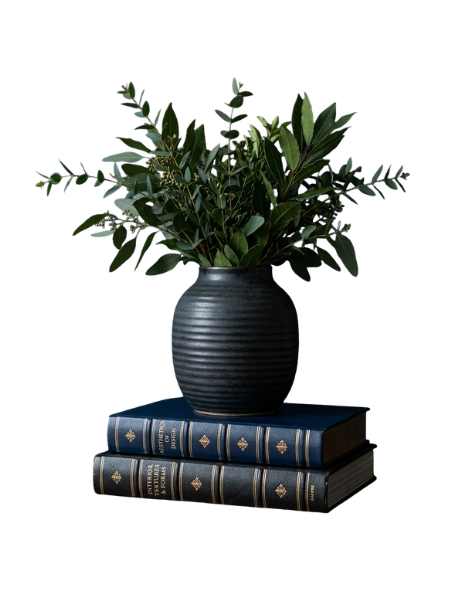
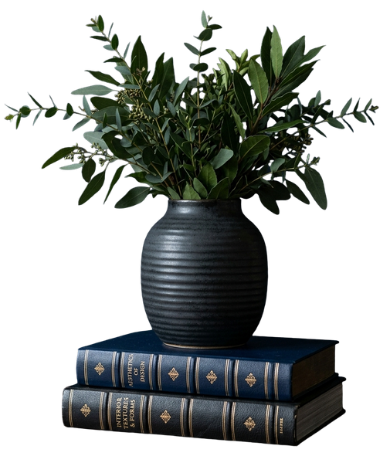
dd

diff --git a/src/pages/Home.jsx b/src/pages/Home.jsx
@@ -218,6 +218,7 @@ const Home = () => {
 
           {/* Left: Text */}
           <div className="hero-left-content">
+            <div className="hero-text-blob" aria-hidden="true" />
             <span className="hero-tag-label uppercase-label">DEVI TIMES COLLECTION</span>
             <h1 className="hero-heading font-heading">
               Timeless Elegance <br />
@@ -350,7 +351,7 @@ const Home = () => {
       <style>{`
         /* ── Hero ── */
         .hero-section {
-          background-color: #01060A;
+          background: linear-gradient(135deg, var(--secondary-dark) 0%, var(--primary-dark-bg) 100%);
           color: var(--text-on-dark);
           min-height: 540px;
           display: flex;
@@ -419,6 +420,21 @@ const Home = () => {
           flex-direction: column;
           align-items: flex-start;
           gap: 0;
+          position: relative;
+          z-index: 1;
+        }
+
+        .hero-text-blob {
+          position: absolute;
+          top: -40px;
+          left: -40px;
+          width: 500px;
+          height: 360px;
+          background-color: rgba(255, 255, 255, 0.07);
+          border-radius: 46% 54% 43% 57% / 51% 45% 55% 49%;
+          z-index: -1;
+          pointer-events: none;
+          transform: rotate(-3deg);
         }
 
         .hero-tag-label {
@@ -636,16 +652,62 @@ const Home = () => {
         }
 
         @media (max-width: 768px) {
+          .hero-section {
+            min-height: 100vh;
+            padding: 100px 16px 60px 16px;
+          }
+          
+          .hero-section::after {
+            content: '';
+            position: absolute;
+            top: 0; left: 0; right: 0; bottom: 0;
+            background: radial-gradient(circle at 50% 90%, rgba(26,35,50,0.6) 0%, transparent 70%);
+            z-index: 0;
+            pointer-events: none;
+          }
+
           .hero-container {
             flex-direction: column;
             text-align: center;
-            padding-top: 20px;
+            padding-top: 0;
+            gap: 40px;
           }
           .hero-left-content { align-items: center; }
-          .hero-right-content { justify-content: center; margin-right: 0; }
-          .hero-heading { font-size: 36px; }
-          .hero-clock-frame { width: 260px; height: 260px; }
-          .hero-cta-group { justify-content: center; }
+          
+          .hero-text-blob {
+            top: 40%;
+            left: 50%;
+            transform: translate(-50%, -50%);
+            width: 120vw;
+            height: 120vw;
+            border-radius: 50%;
+            opacity: 0.15;
+          }
+          
+          .hero-right-content { justify-content: center; margin-right: 0; width: 100%; }
+          .hero-heading { font-size: 38px; line-height: 1.2; margin-bottom: 16px; }
+          .hero-description { font-size: 15px; max-width: 100%; margin-bottom: 0; }
+          .hero-clock-frame { width: 280px; height: 280px; margin: 0 auto; }
+          .hero-cta-group { justify-content: center; align-items: center; }
+
+          .hero-decorative-leaf {
+            bottom: -5%;
+            left: -20%;
+            height: 35%;
+            max-height: 300px;
+            opacity: 0.25;
+            object-fit: contain;
+          }
+
+          .hero-decorative-vase {
+            bottom: 0;
+            right: -15%;
+            height: 30%;
+            max-height: 250px;
+            opacity: 0.35;
+            object-fit: contain;
+          }
+
           .feature-strip-grid { grid-template-columns: 1fr; }
           .feature-item { border-right: none; border-bottom: 1px solid rgba(255,255,255,0.08); }
           .feature-item:last-child { border-bottom: none; }

diff --git a/src/index.css b/src/index.css
@@ -165,8 +165,30 @@ button {
   .grid-products { grid-template-columns: repeat(2, 1fr); }
 }
 
+@media (max-width: 768px) {
+  .grid-products { 
+    grid-template-columns: repeat(2, 1fr); 
+    gap: 12px; 
+  }
+  .card-text-area { padding: 12px; }
+  .card-button-row { 
+    padding: 10px 12px; 
+    gap: 8px; 
+    grid-template-columns: 1fr; /* Stack buttons vertically for cleaner small cards */
+  }
+  .product-name { font-size: 14px; }
+  .category-label { font-size: 9px; }
+  .price-bold { font-size: 16px; }
+  .price-strikethrough { font-size: 12px; }
+}
+
 @media (max-width: 480px) {
-  .grid-products { grid-template-columns: 1fr; }
+  .grid-products { gap: 8px; }
+  .card-text-area { padding: 10px; }
+  .card-button-row { padding: 8px 10px; gap: 6px; }
+  .product-name { font-size: 12px; line-height: 1.2; }
+  .price-bold { font-size: 14px; }
+  .badge-sale { font-size: 7px; padding: 3px 5px; }
 }
 
 /* ── Buttons ───────────────────────────────────────────────────── */

diff --git a/src/components/Navbar.jsx b/src/components/Navbar.jsx
@@ -114,7 +114,7 @@ const Navbar = () => {
           left: 0;
           width: 100%;
           z-index: 1000;
-          background-color: #032247; /* Blue color matching the 2nd image */
+          background-color: var(--primary-dark-bg);
           border-bottom: 1px solid rgba(255, 255, 255, 0.05);
           height: 64px;
           display: flex;